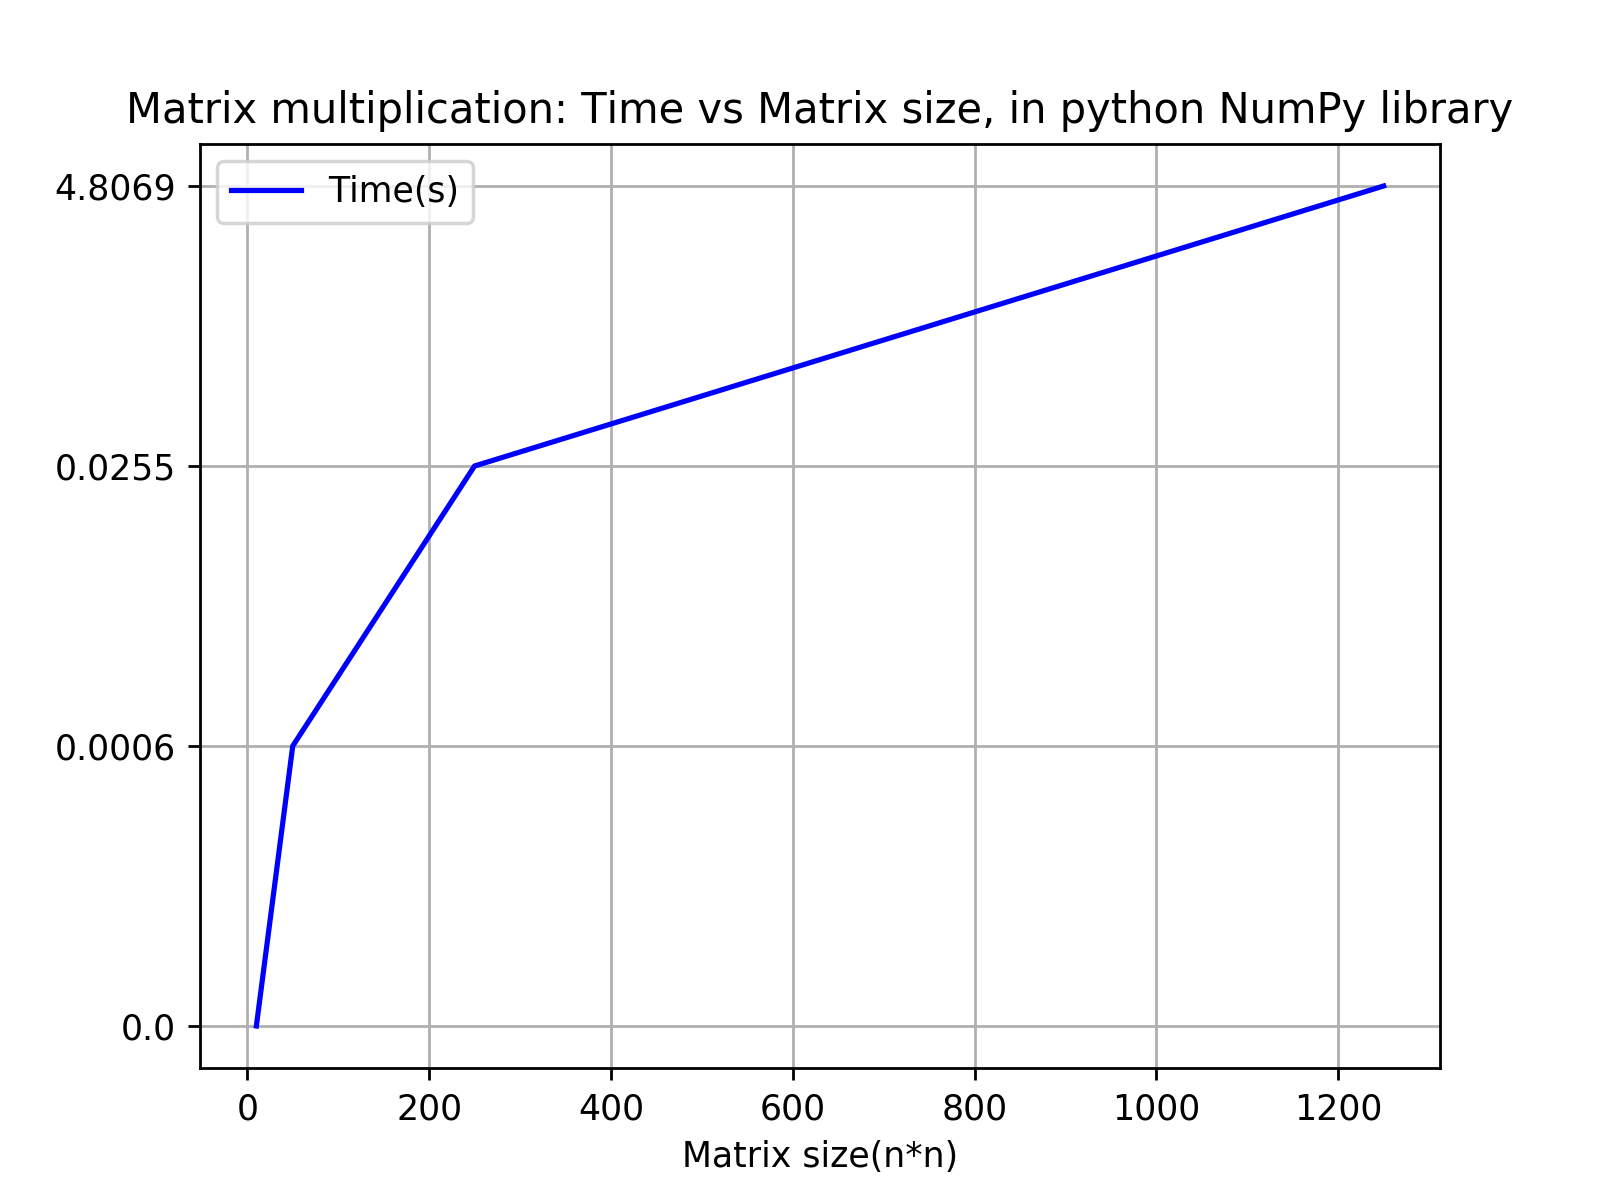
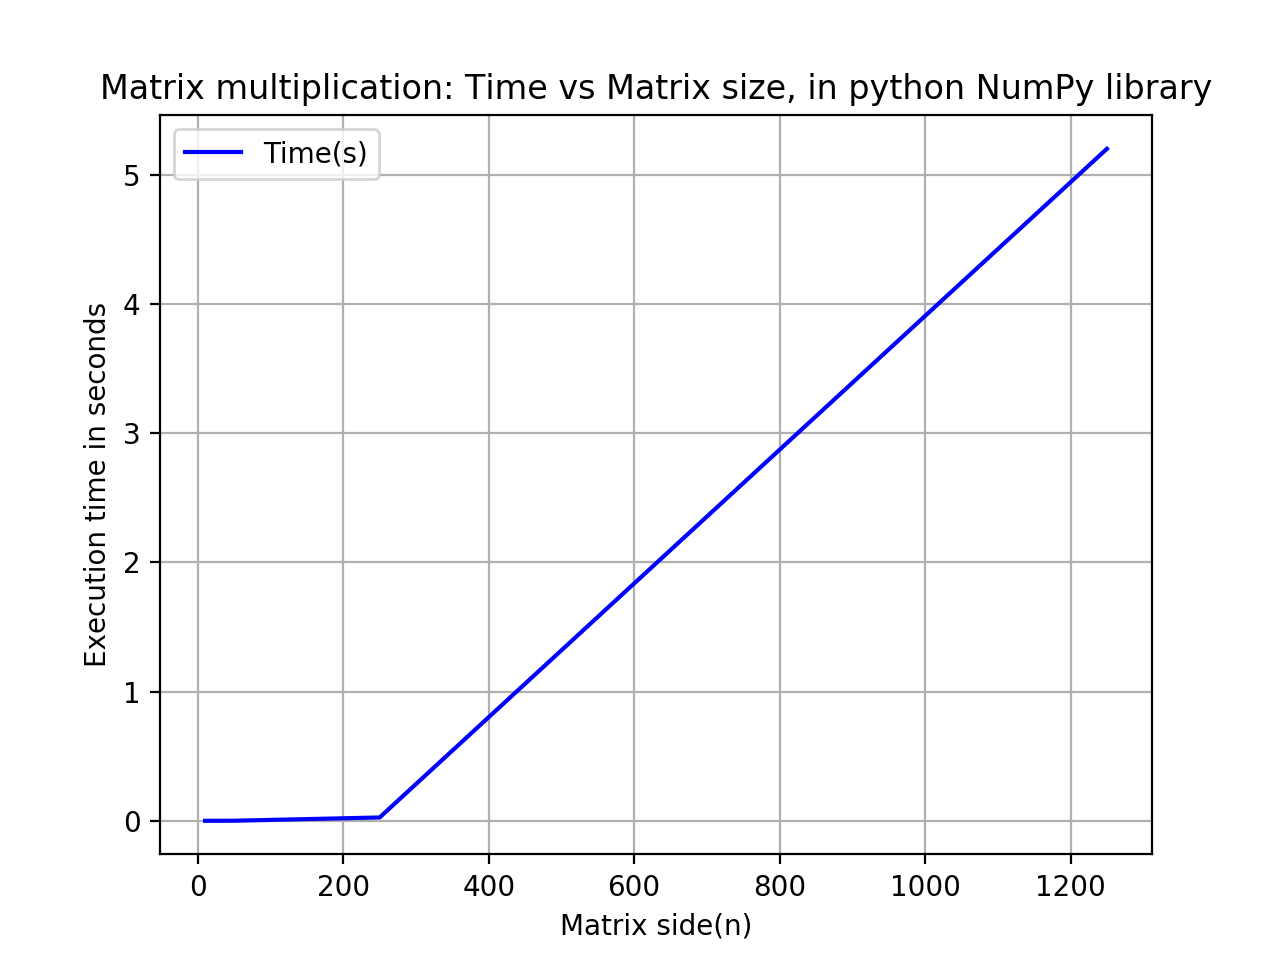
Improvements

diff --git a/computation.py b/computation.py
@@ -55,14 +55,15 @@ def plot_graphs(title, save_name, data):
     s = []
     t = []
     for key, value in data.items():
-        t.append(str(round(value, 4)))
+        t.append(float(round(value, 4)))
         s.append(int(key))
     plt.plot(s, t, label='Time(s)', color='b')
     plt.legend()
     plt.grid(True)
-    plt.xlabel('Matrix size(n*n)')
+    plt.xlabel('Matrix side(n)')
     plt.title(title)
-    plt.savefig(save_name, dpi=250)
+    plt.ylabel('Execution time in seconds')
+    plt.savefig(save_name, dpi=200)
     plt.close()
 
 
